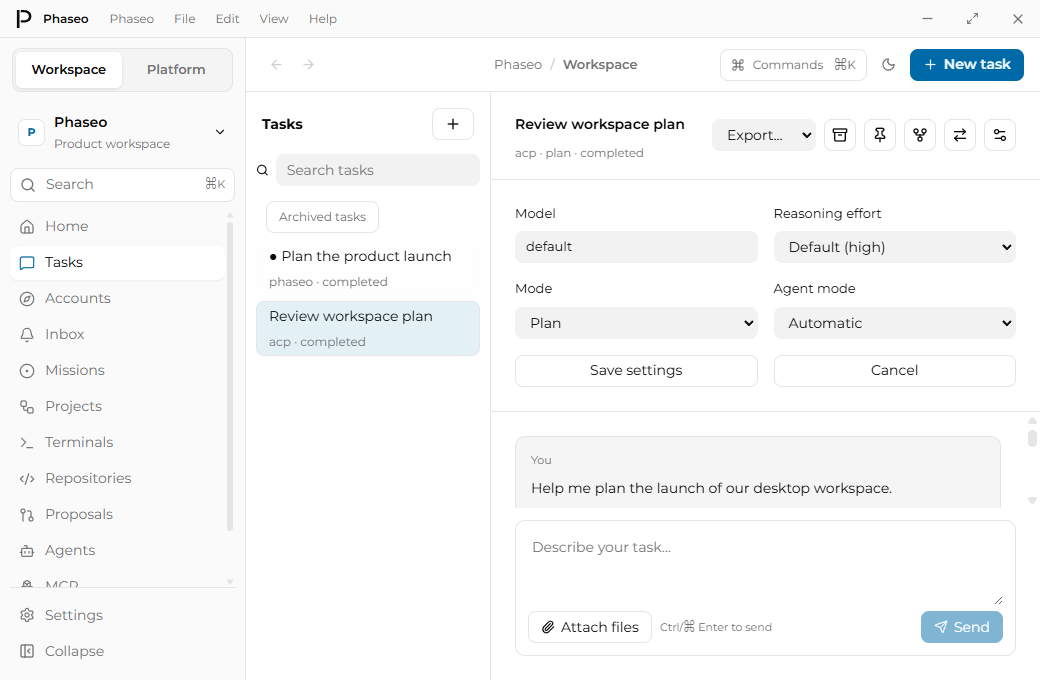
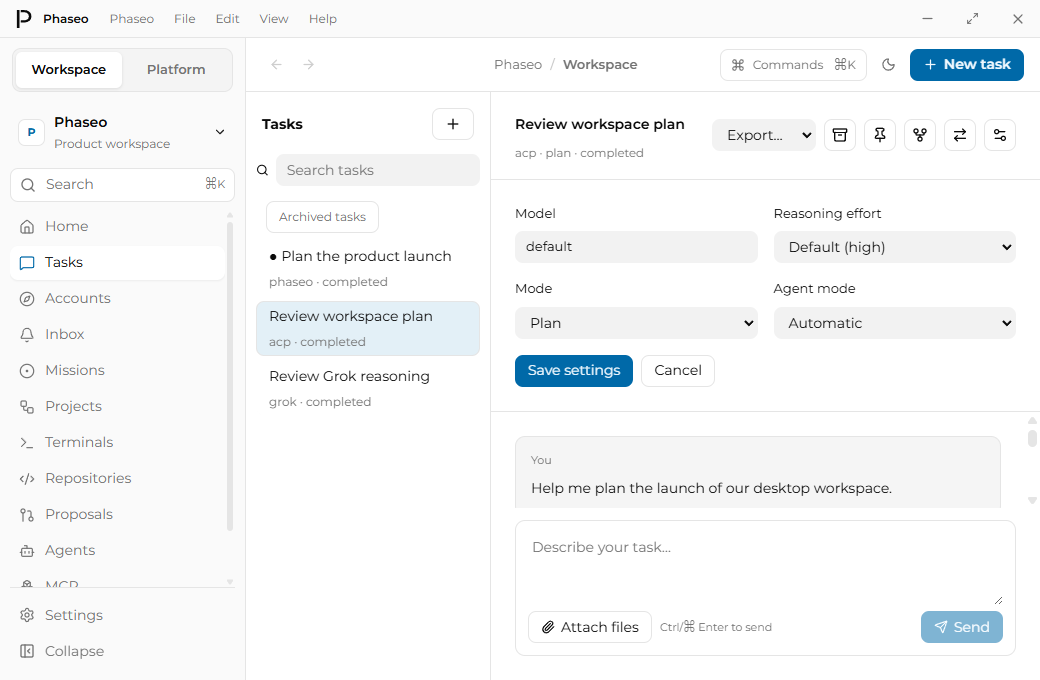
fix(desktop): group conversation settings actions

diff --git a/apps/desktop/src/renderer/components/TaskSettings.tsx b/apps/desktop/src/renderer/components/TaskSettings.tsx
@@ -19,6 +19,6 @@ export function TaskSettings({ task, save, close }: { task: Task; save: (model: 
 		{(task.harness === "codex" || (["acp", "grok"].includes(task.harness) && (selectedModel?.reasoningEfforts?.length || reasoningEffort))) && <label>Reasoning effort<select aria-label="Reasoning effort" value={reasoningEffort} disabled={saving || loading} onChange={event => setReasoningEffort(event.target.value)}><option value="">Default{selectedModel?.defaultReasoningEffort ? ` (${selectedModel.defaultReasoningEffort})` : ""}</option>{reasoningEffort && !selectedModel?.reasoningEfforts?.some(value => value.id === reasoningEffort) && <option value={reasoningEffort}>{reasoningEffort} (availability unverified)</option>}{selectedModel?.reasoningEfforts?.map(value => <option key={value.id} value={value.id} title={value.description}>{value.id}</option>)}</select></label>}
 		<label>Mode<select aria-label="Task mode" value={mode} onChange={event => setMode(event.target.value as Task["mode"])} disabled={saving}>{task.harness !== "grok" && <option value="chat">Chat</option>}<option value="code">Code</option><option value="plan">Plan</option></select></label>
 		{task.harness === "acp" && <label>Agent mode<select aria-label="Agent mode" value={nativeMode} disabled={saving} onChange={event => setNativeMode(event.target.value)}><option value="">Automatic</option>{nativeMode && !task.nativeModes?.some(value => value.id === nativeMode) && <option value={nativeMode}>{nativeMode} (availability unverified)</option>}{task.nativeModes?.map(value => <option key={value.id} value={value.id} title={value.description}>{value.name}</option>)}</select></label>}
-		<button type="submit" disabled={saving || !model.trim() || (task.harness === "phaseo" && model.trim() === "default")}>Save settings</button><button type="button" disabled={saving} onClick={close}>Cancel</button>
+		<div className="task-settings-actions"><button type="submit" className="task-primary" disabled={saving || !model.trim() || (task.harness === "phaseo" && model.trim() === "default")}>Save settings</button><button type="button" disabled={saving} onClick={close}>Cancel</button></div>
 	</form>;
 }

diff --git a/apps/desktop/src/renderer/styles.css b/apps/desktop/src/renderer/styles.css
@@ -72,6 +72,7 @@
 .task-start > p { color: var(--text-muted); }
 .task-setup { display: grid; grid-template-columns: 1fr 1fr; gap: 16px; margin-block: 30px; }
 .task-settings { margin: 0; padding: 24px; border-bottom: 1px solid var(--border); }
+.task-settings-actions { grid-column: 1 / -1; display: flex; flex-wrap: wrap; gap: 8px; }
 .task-setup label, .account-form label { display: flex; flex-direction: column; gap: 8px; font-size: 13px; }
 .task-setup label:has(> input[type="checkbox"]), .account-form label:has(> input[type="checkbox"]) { flex-direction: row; align-items: center; }
 .task-setup :is(input:not([type="checkbox"]), select, textarea), .account-form :is(input:not([type="checkbox"]), select, textarea) { width: 100%; }

diff --git a/apps/desktop/docs/design-audit.md b/apps/desktop/docs/design-audit.md
@@ -17,6 +17,7 @@ Reviewed against the live Phaseo Models and Chat layouts and the web application
 11. **Platform:** replace the decorative marketing hero and unverified readiness/health badges with concise links to the existing web tools.
 12. **Conversation settings:** inset the model, reasoning and mode controls by 24 pixels, matching the toolbar and composer. Capture both window sizes and themes after the rendered frame settles.
 13. **Conversation typography:** prevent the general message rule from preserving Markdown whitespace between rendered blocks. Use explicit heading, paragraph and list spacing; retain preformatted code. The audit verifies normal Markdown whitespace and a heading-to-paragraph gap no greater than 20 pixels (currently 12 pixels).
+14. **Settings actions:** group Save and Cancel beneath the fields rather than spreading them across separate grid cells. Use the website's primary-button treatment for Save and allow the action row to wrap.
 
 The sidebar now scrolls independently while Settings and Collapse remain accessible. Application menus align to the selected trigger as text sizes change. The desktop uses the web logo rather than an invented mark.
 
